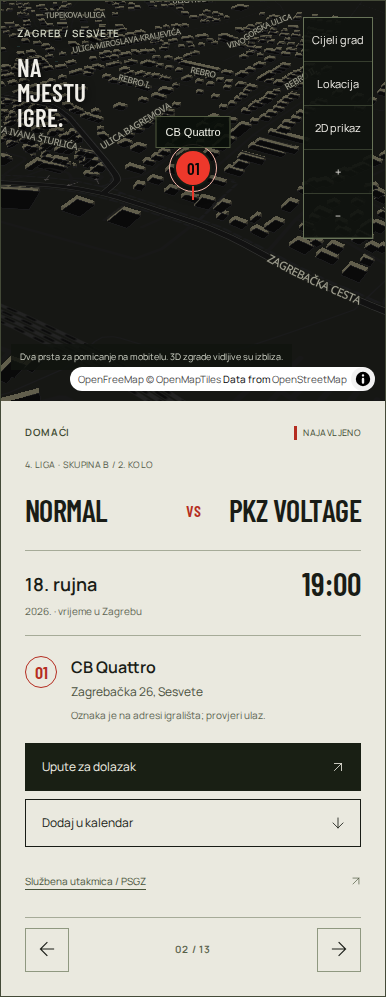
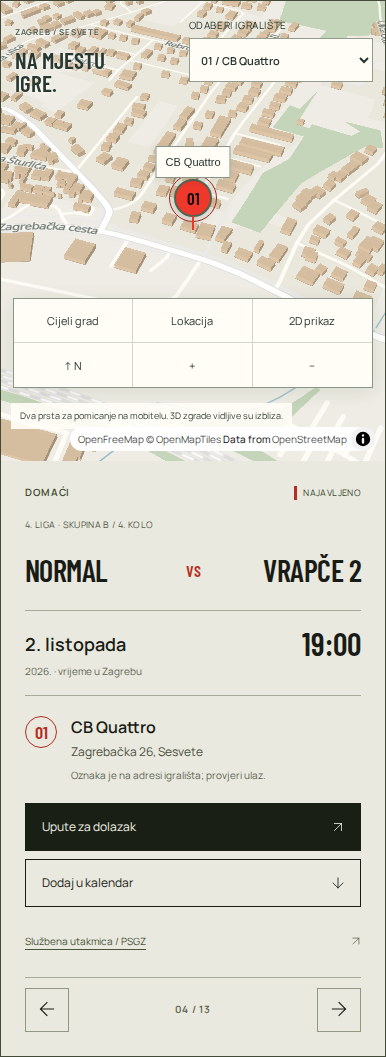
Make match map brighter and easier to navigate

diff --git a/src/atlas/CityMap.tsx b/src/atlas/CityMap.tsx
@@ -23,40 +23,45 @@ export default function CityMap({ selected, visibleVenues, onSelect }: Props) {
  function focusVenue(id: string | null) {
    const venue=venues.find(v=>v.id===id); if(!venue || !map.current)return;
    setOverview(false); overviewRef.current=false;
-   map.current.flyTo({ center:venue.coordinates, zoom:15.7, pitch:threeD?58:0, bearing:threeD?-24:0, duration:reduced()?0:1400, essential:false });
+   map.current.flyTo({ center:venue.coordinates, padding:0, zoom:15.7, pitch:threeD?45:0, bearing:threeD?-15:0, duration:reduced()?0:1400, essential:false });
  }
  function showCity() {
-   setOverview(true); overviewRef.current=true;
-   map.current?.fitBounds([[15.887,45.781],[16.114,45.841]], { padding: {top:90,bottom:65,left:32,right:112}, pitch:threeD?42:0,bearing:0,duration:reduced()?0:1200,maxZoom:12.2 });
+   setOverview(true); overviewRef.current=true; setThreeD(false);
+   map.current?.fitBounds([[15.887,45.781],[16.114,45.841]], { padding: {top:105,bottom:145,left:45,right:45}, pitch:0,bearing:0,duration:reduced()?0:1200,maxZoom:12.2 });
  }
  useEffect(()=>{
    let disposed=false, timeout:ReturnType<typeof setTimeout>;
    const abort=new AbortController(); setStatus('loading');
    async function init() {
     try {
-     const response=await fetch('https://tiles.openfreemap.org/styles/dark',{signal:abort.signal});
+     const response=await fetch('https://tiles.openfreemap.org/styles/positron',{signal:abort.signal});
      if(!response.ok)throw new Error('Map style unavailable');
      const style=await response.json() as StyleSpecification;
      if(disposed || !host.current)return;
-     // Keep geographical labels and roads, adapt the map's palette to Normal.
+     // Warm paper cartography: streets stay distinct from softly lit buildings.
      for(const layer of style.layers) {
-       if(layer.type==='background') layer.paint={'background-color':'#161714'};
-       if(layer.id==='water' && layer.type==='fill') layer.paint={...layer.paint,'fill-color':'#20302f'};
-       if(layer.id==='landuse_park' && layer.type==='fill') layer.paint={...layer.paint,'fill-color':'#232820'};
+       if(layer.type==='background') layer.paint={'background-color':'#eeece4'};
+       if(layer.type==='fill') {
+         const color:Record<string,string>={water:'#a9ced6',park:'#cfdcc2',landcover_wood:'#c5d5b9',landuse_residential:'#e7e3d9',building:'#d6c3aa'};
+         if(color[layer.id])layer.paint={...layer.paint,'fill-color':color[layer.id]};
+         if(layer.id==='building')layer.paint={...layer.paint,'fill-outline-color':'#baa88e'};
+       }
+       if(layer.type==='line' && layer.id==='waterway')layer.paint={...layer.paint,'line-color':'#8cbac6'};
+       if(layer.type==='line' && layer.id==='highway_minor')layer.paint={...layer.paint,'line-color':'#fffdf7'};
        if(layer.type==='symbol' && layer.layout?.['text-field']) {
-         layer.paint={...layer.paint,'text-color':'#c2c1af','text-halo-color':'#181915','text-halo-width':1.2};
+         layer.paint={...layer.paint,'text-color':'#45524f','text-halo-color':'#faf8f1','text-halo-width':1.5};
        }
      }
      const venue=venues.find(v=>v.id===latest.current.selected)||venues[0];
-     const instance=new Map({container:host.current,style,center:venue.coordinates,zoom:14.9,pitch:threeD?58:0,bearing:threeD?-24:0,attributionControl:false,cooperativeGestures:true,locale:{'AttributionControl.ToggleAttribution':t('Prikaži izvore karte'),'Map.Title':t('Karta'),'CooperativeGesturesHandler.WindowsHelpText':t('Za povećanje karte koristi Ctrl i kotačić'),'CooperativeGesturesHandler.MacHelpText':t('Za povećanje karte koristi ⌘ i kotačić'),'CooperativeGesturesHandler.MobileHelpText':t('Pomakni kartu s dva prsta')},maxPitch:65,minZoom:9,maxZoom:18,maxBounds:[[15.70,45.64],[16.30,45.98]],pixelRatio:Math.min(devicePixelRatio,1.5),renderWorldCopies:false});
+     const instance=new Map({container:host.current,style,center:venue.coordinates,zoom:14.9,pitch:threeD?45:0,bearing:threeD?-15:0,attributionControl:false,cooperativeGestures:true,locale:{'AttributionControl.ToggleAttribution':t('Prikaži izvore karte'),'Map.Title':t('Karta'),'CooperativeGesturesHandler.WindowsHelpText':t('Za povećanje karte koristi Ctrl i kotačić'),'CooperativeGesturesHandler.MacHelpText':t('Za povećanje karte koristi ⌘ i kotačić'),'CooperativeGesturesHandler.MobileHelpText':t('Pomakni kartu s dva prsta')},maxPitch:65,minZoom:9,maxZoom:18,maxBounds:[[15.70,45.64],[16.30,45.98]],pixelRatio:Math.min(devicePixelRatio,1.5),renderWorldCopies:false});
      map.current=instance;
      instance.addControl(new AttributionControl({compact:true}),'bottom-right');
      instance.getCanvas().setAttribute('aria-label',t("Karta Zagreba. Strelice pomiču kartu, plus i minus mijenjaju povećanje."));
      instance.on('load',()=>{
        if(disposed)return;
        const label=instance.getStyle().layers.find(l=>l.type==='symbol')?.id;
-       instance.addLayer({id:'normal-buildings',type:'fill-extrusion',source:'openmaptiles','source-layer':'building',minzoom:13,paint:{'fill-extrusion-color':'#73766a','fill-extrusion-height':['coalesce',['get','render_height'],8],'fill-extrusion-base':['coalesce',['get','render_min_height'],0],'fill-extrusion-opacity':0.8}},label);
-       instance.setLight({anchor:'viewport',color:'#fff0d7',intensity:0.5,position:[1.15,210,45]});
+       instance.addLayer({id:'normal-buildings',type:'fill-extrusion',source:'openmaptiles','source-layer':'building',minzoom:13,paint:{'fill-extrusion-color':'#dfc5a5','fill-extrusion-vertical-gradient':false,'fill-extrusion-height':['coalesce',['get','render_height'],8],'fill-extrusion-base':['coalesce',['get','render_min_height'],0],'fill-extrusion-opacity':0.95}},label);
+       instance.setLight({anchor:'viewport',color:'#ffffff',intensity:0.3,position:[1.15,210,50]});
        clearTimeout(timeout);setStatus('ready');
      });
      instance.on('error',()=>{ /* Timeout supplies a useful fallback if map data fails. */ });
@@ -77,7 +82,7 @@ export default function CityMap({ selected, visibleVenues, onSelect }: Props) {
    }
    timeout=setTimeout(()=>{if(!disposed){setStatus('error');abort.abort();}},18000);
    void init();
-   const resize=new ResizeObserver(()=>{map.current?.resize();if(overviewRef.current)map.current?.fitBounds([[15.887,45.781],[16.114,45.841]],{padding:{top:90,bottom:65,left:32,right:112},duration:0,maxZoom:12.2});});if(host.current)resize.observe(host.current);
+   const resize=new ResizeObserver(()=>{map.current?.resize();if(overviewRef.current)map.current?.fitBounds([[15.887,45.781],[16.114,45.841]],{padding:{top:105,bottom:145,left:45,right:45},duration:0,maxZoom:12.2});});if(host.current)resize.observe(host.current);
    return ()=>{disposed=true;abort.abort();clearTimeout(timeout);resize.disconnect();pins.current.forEach(p=>p.marker.remove());pins.current=[];map.current?.remove();map.current=null;};
  },[attempt, language]);
  useEffect(()=>{
@@ -91,11 +96,12 @@ export default function CityMap({ selected, visibleVenues, onSelect }: Props) {
  return <div className="city-map-frame" data-map-status={status}>
    <div ref={host} className="city-map-canvas" />
    <div className="atlas-map-caption"><span className="mono">ZAGREB / SESVETE</span><strong>{overview?t("GRAD JE TEREN."):t("NA MJESTU IGRE.")}</strong></div>
-   {status==='ready' && <div className="atlas-map-controls" aria-label={t("Kontrole karte")}>
+   {status==='ready' && <><label className="atlas-venue-picker"><span>{t('Odaberi igralište')}</span><select aria-label={t('Odaberi igralište')} value={selected||''} onChange={e=>{onSelect(e.target.value);focusVenue(e.target.value);}}><option value="" disabled>{t('Odaberi igralište')}</option>{venues.filter(v=>visibleVenues.includes(v.id)).map(v=><option value={v.id} key={v.id}>{v.number} / {t(v.name)}</option>)}</select></label><div className="atlas-map-controls" aria-label={t("Kontrole karte")}>
      <button onClick={showCity}>{t("Cijeli grad")}</button><button disabled={!selected} onClick={()=>focusVenue(selected)}>{t("Lokacija")}</button>
-     <button aria-pressed={threeD} onClick={()=>{const value=!threeD;setThreeD(value);map.current?.easeTo({pitch:value?58:0,bearing:value?-24:0,duration:reduced()?0:650});}}>{threeD?t("2D prikaz"):t("3D prikaz")}</button>
+     <button aria-pressed={threeD} onClick={()=>{const value=!threeD;setThreeD(value);map.current?.easeTo({pitch:value?45:0,bearing:value?-15:0,duration:reduced()?0:650});}}>{threeD?t("2D prikaz"):t("3D prikaz")}</button>
+     <button aria-label={t('Sjever gore')} onClick={()=>map.current?.easeTo({bearing:0,duration:reduced()?0:500})}><span aria-hidden="true">↑ N</span></button>
      <button aria-label={t("Približi kartu")} onClick={()=>map.current?.zoomIn({duration:reduced()?0:250})}>+</button><button aria-label={t("Udalji kartu")} onClick={()=>map.current?.zoomOut({duration:reduced()?0:250})}>−</button>
-   </div>}
+   </div></>}
    {status==='loading' && <div className="atlas-map-message" role="status"><span className="atlas-calibration" aria-hidden="true"/><p>{t("Postavljamo Zagreb na kartu.")}</p><small>{t("Raspored i detalji dostupni su odmah.")}</small></div>}
    {status==='error' && <div className="atlas-map-message" role="status"><p>{t("Karta trenutačno nije dostupna.")}</p><small>{t("Utakmice, adrese i upute za dolazak i dalje su dostupne u rasporedu.")}</small><button onClick={()=>setAttempt(n=>n+1)}>{t("Pokušaj ponovno")}</button></div>}
    <p className="atlas-map-help">{t("Dva prsta za pomicanje na mobitelu. 3D zgrade vidljive su izbliza.")}</p>

diff --git a/src/atlas/atlas.css b/src/atlas/atlas.css
@@ -163,3 +163,41 @@
  .atlas-footer { flex-direction:column; align-items:start; gap:10px; }
 }
 @media(prefers-reduced-motion:no-preference) { .atlas-fixture,.atlas-filters button { transition:background .2s; } }
+
+/* Daylight cartography, framed by the club's graphite identity. */
+.atlas-map { background:#eeece4; }
+.atlas-map-caption { top:22px; left:22px; text-shadow:0 1px 4px #fff; color:#283831; }
+.atlas-map-caption .mono { color:#45564c; }
+.atlas-map-caption strong { font-size:28px; max-width:16ch; }
+.atlas-venue-picker { position:absolute; top:20px; right:20px; display:grid; gap:5px; width:min(220px,42%); color:#283831; }
+.atlas-venue-picker > span { font-size:10px; letter-spacing:.06em; text-transform:uppercase; }
+.atlas-venue-picker select { border:1px solid #919b8e; color:#25352e; background:#fffdf6; width:100%; border-radius:0; padding:12px; font:600 12px var(--body); min-height:44px; }
+.atlas-map-controls { top:auto; bottom:68px; left:50%; right:auto; transform:translateX(-50%); flex-direction:row; width:max-content; max-width:calc(100% - 32px); background:#fffdf6; border:1px solid #899589; color:#25352e; box-shadow:0 4px 18px #23372518; }
+.atlas-map-controls button { border-bottom:0; border-right:1px solid #d1d6cc; min-width:44px; padding:10px 14px; font-size:12px; }
+.atlas-map-controls button:last-child { border-right:0; }
+.atlas-map-controls button:hover { background:#e1e8db; }
+.atlas-map-controls button:focus-visible,.atlas-venue-picker select:focus-visible { outline:2px solid #b52d21; outline-offset:2px; }
+.atlas-map-help { background:#fffdf6eb; color:#344239; bottom:30px; }
+.atlas-pin > span { background:#fffdf6; border-color:#536452; box-shadow:0 2px 8px #27372433; }
+.atlas-pin:after { background:#536452; }
+.atlas-pin small { background:#fffdf6; color:#25352e; border-color:#899589; box-shadow:0 2px 8px #27372418; }
+.atlas-pin.selected > span { outline-color:#9f261e; }
+.atlas-pin:focus-visible { outline-color:#9f261e; }
+@media(max-width:760px) {
+ .atlas-map { height:460px; min-height:460px; }
+ .atlas-map-caption { top:16px; left:14px; }
+ .atlas-map-caption strong { font-size:23px; max-width:8ch; line-height:1; margin-top:6px; }
+ .atlas-map-caption .mono { font-size:8px; }
+ .atlas-venue-picker { top:16px; right:12px; width:48%; }
+ .atlas-venue-picker select { padding:10px 7px; font-size:11px; }
+ .atlas-map-controls { bottom:73px; max-width:calc(100% - 16px); }
+ .atlas-map-controls button { padding:9px 7px; min-width:44px; font-size:10px; min-height:46px; }
+ .atlas-map-controls button:nth-last-child(-n+3) { min-width:44px; }
+ .atlas-map-help { bottom:32px; font-size:9px; }
+}
+@media(max-width:760px) {
+ .atlas-map-controls { display:grid; grid-template-columns:repeat(3,minmax(0,1fr)); width:calc(100% - 24px); }
+ .atlas-map-controls button { font-size:11px; min-height:44px; }
+ .atlas-map-controls button:nth-child(-n+3) { border-bottom:1px solid #d1d6cc; }
+ .atlas-map-controls button:nth-child(3n) { border-right:0; }
+}

diff --git a/docs/qa-checklist.md b/docs/qa-checklist.md
@@ -157,4 +157,13 @@ captures. Real-provider smoke script: `node scripts/atlas-qa.mjs`.
 - [x] Landing, shop, counter and atlas open under the project subpath without runtime errors or missing local assets.
 - [x] Merch images now use Vite's base URL for repository-hosted Pages compatibility.
 - [x] Existing Pages workflow derives base path and canonical URL from configure-pages.
-- [ ] Publication pending authenticated GitHub account access; no repository or public site created yet.
+- [x] Published to https://tingrgic.github.io/pk-normal/ through successful GitHub Actions run 35915346373; HTTPS returns 200.
+
+## Daylight map refinement — 2026-09-26
+- [x] Warm paper terrain, blue water, sage parks and sandstone 3D buildings visually reviewed.
+- [x] Desktop 1440 and phone 390/430 screenshots inspected with real map tiles.
+- [x] Venue selector, marker selection, north reset, 2D/3D and city overview exercised.
+- [x] Eleven atlas/language tests pass, including nine sizes and English/German accessibility.
+- [x] Real-provider desktop/mobile axe checks pass without runtime errors.
+- [x] Production build passes TypeScript and compressed bundle budgets.
+- [x] Mobile toolbar uses two rows of comfortable controls to accommodate translated labels.

diff --git a/docs/atlas.md b/docs/atlas.md
@@ -70,3 +70,15 @@ The shared HR / EN / DE switch translates filters, UI and map accessibility/help
 text. Calendar downloads use the selected language for descriptions and unknown
 venues while retaining official names, addresses, UIDs and UTC timestamps.
 Displayed dates keep Europe/Zagreb time in each locale. See `docs/i18n.md`.
+
+## Readability refinement — 26 September 2026
+
+The map now uses OpenFreeMap's Positron base with warm paper ground, muted blue
+water, sage parks and softly lit sandstone buildings. Road labels use dark ink and
+light halos. Venue views use a lower 45° pitch; the city overview is a north-up flat
+map. A labelled venue selector provides direct access even where markers overlap.
+The floating bottom toolbar keeps controls away from venues and adds north reset;
+phone maps are 460px tall with 44px minimum control targets. Camera padding resets
+when returning to a venue, so the selected marker remains centered after overview.
+All new control labels are translated into English and German. Map style changes do
+not alter fixture data, venue coordinates, attribution or source freshness.

diff --git a/README.md b/README.md
@@ -112,7 +112,7 @@ Three.js is a deferred chunk; the warning about its uncompressed bundle size is 
 - Physical iPhone/Android GPU performance has not been measured; browser emulation is not a hardware guarantee.
 - No live fixture feed or backend is connected. Official links remain the source of current competition information.
 - No licensed club portraits or official crest were available; the site uses original typography and equipment geometry.
-- A final production domain is required to generate canonical/sitemap URLs.
+- Canonical and sitemap URLs use the configured GitHub Pages address; update SITE_URL if moving to a custom domain.
 - Calling opens the visitor's telephone app. This site does not collect membership applications.
 
 ## Brojač pikada

diff --git a/docs/sources.md b/docs/sources.md
@@ -168,3 +168,9 @@ brand color variant. The sponsorship inquiry CTA remains available.
 - Confidence: confirmed as design concepts only; no claim of manufactured products, inventory, prices, launch date or actual club-member calendar participation.
 - Mockup provenance: built-in image_gen; exact prompts in `docs/merch-image-prompts.json`.
 - These proposals introduce no new factual club data and require no federation attribution.
+
+### Map readability update — 2026-09-26
+
+https://tiles.openfreemap.org/styles/positron — official OpenFreeMap base style,
+checked 2026-09-26; high confidence, primary technical source. Custom road, water,
+park and building colors improve contrast; no geographical or match facts changed.
